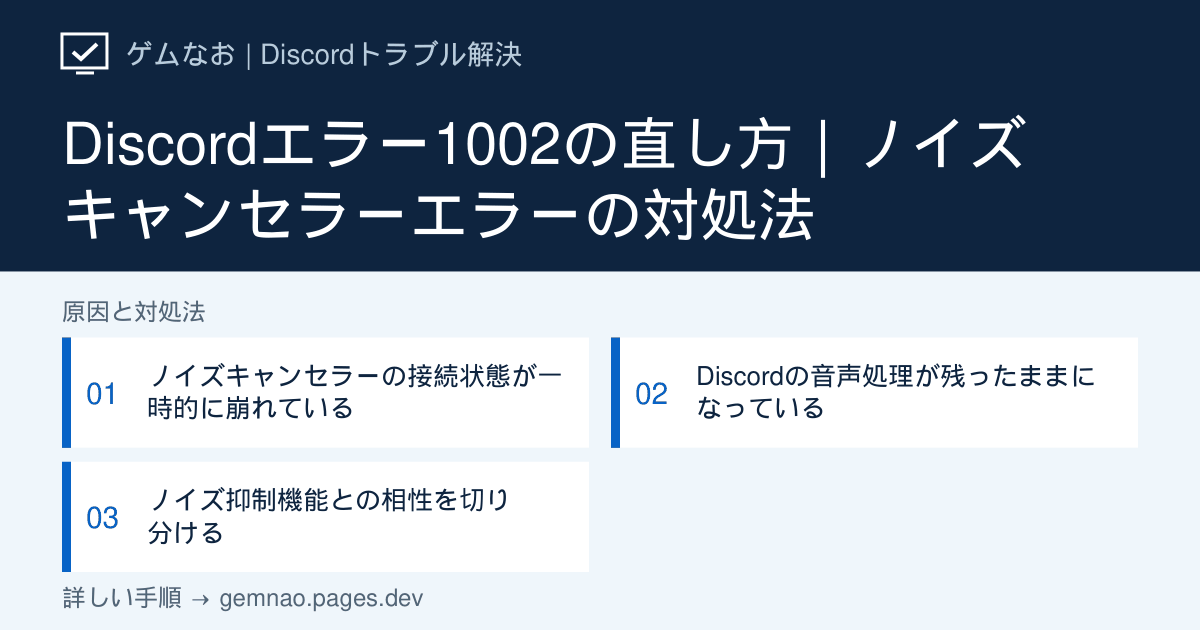
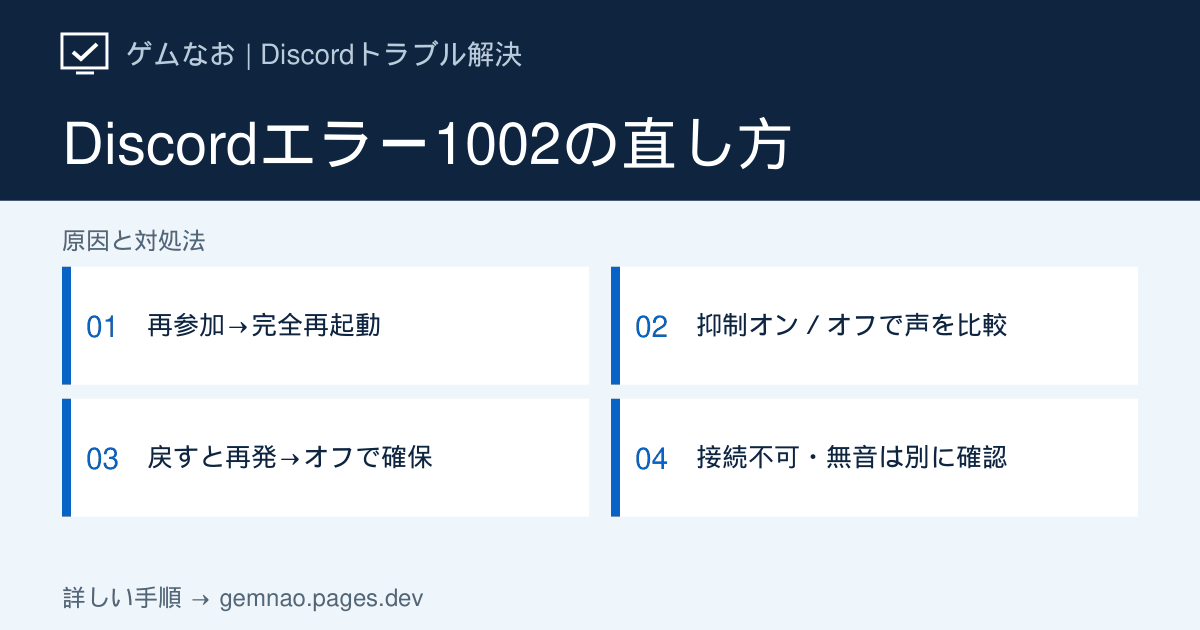
Improve error 1002 guide with noise suppression comparisons and recurrence branches

diff --git a/lib/discord-p0-articles.ts b/lib/discord-p0-articles.ts
@@ -443,78 +443,92 @@ export const discordP0Articles: DiscordArticle[] = [
   {
     slug: 'error-1002',
     category: 'audio',
-    title: 'Discordエラー1002の直し方｜ノイズキャンセラーエラーの対処法',
+    title: 'Discordエラー1002の直し方｜ノイズ抑制の比較と再発時の対処',
     shortTitle: 'エラー1002・ノイズキャンセラー',
-    seoTitle: 'Discordエラー1002の直し方｜ノイズキャンセラーエラー',
-    metaDescription:
-      'Discordエラー1002が出たときの対処法。通話への再参加、Discordの完全再起動、ノイズ抑制の切り分けを公式案内に沿って説明します。',
-    symptom:
-      'Discordの通話中にエラー1002が表示され、ノイズキャンセラーまたはノイズ抑制が正常に動作しない場合の手順です。',
-    target: 'Windows版 Discordデスクトップアプリの音声通話',
-    conclusion:
-      'エラー1002は、Discord公式ではバックグラウンドノイズキャンセラーの内部エラーです。まず通話から退出して再参加し、続く場合はDiscordを最小化ではなく完全終了して再起動します。',
+    seoTitle: 'Discordエラー1002の直し方｜ノイズ抑制を戻すと再発する場合',
+    metaDescription: 'Discordエラー1002を再参加・完全再起動から確認。ノイズ抑制のオン／オフでエラーと相手への聞こえ方を比較し、戻すと再発する場合や通話に接続できない場合の次の手順を解説します。',
+    symptom: '通話でエラー1002が表示される、ノイズ抑制を戻すと再発する、抑制を切っても声が届かない場合の確認手順です。',
+    target: 'Windows版Discordデスクトップアプリの音声通話',
+    conclusion: '1002はDiscord公式が案内するノイズキャンセラーの内部エラーです。最初に通話へ再参加し、続くならDiscordを完全再起動します。直らなければ同じマイク・相手・通話でノイズ抑制だけを変更し、エラーと声を別々に確認。オンへ戻すと再発する場合は、オフで通話を確保して更新・負荷の確認へ進みます。',
     quickFixes: [
-      'ボイスチャンネルまたは通話から退出して再参加する',
-      'Discordをタスクトレイから完全終了して再起動する',
-      'ノイズ抑制を一時的にオフにして通話できるか確認する',
+      '1002の表示を確認し、通話への再参加→Discordの完全再起動を試す',
+      '同じ条件で、元のノイズ抑制→オフ→元の設定を比較する',
+      'オフで改善する場合と、接続できない・声が届かない場合を分ける',
+    ],
+    showStatusCheck: false,
+    diagnosisTitle: 'オン／オフで何が変わった？ エラーと聞こえ方の判断表',
+    diagnosisIntro: '「1002が消えた」と「通話が正常」は別に記録します。比較は同じマイク・入力音量・通話相手で行い、相手には声の欠けと周囲の音を確認してもらってください。',
+    diagnosis: [
+      { symptom: '1002が表示されたばかり', check: '設定を変える前に再参加・完全再起動', causeIndex: 1 },
+      { symptom: 'オフで1002が消え、相手に声が届く', check: '元の抑制設定へ戻して再発するか1回比較', causeIndex: 2 },
+      { symptom: '元へ戻すと1002再発、オフなら通話できる', check: 'オフを一時運用し、更新と発生条件を確認', causeIndex: 3 },
+      { symptom: '1002は消えたが、雑音や声の欠けが残る', check: 'エラー解消と音質を分け、静かな環境でも比較', causeIndex: 3 },
+      { symptom: 'オンでもオフでも1002が出る', check: '抑制だけに絞らず、更新・別クライアント比較と相談', causeIndex: 3 },
+      { symptom: 'RTC接続中・No Routeで参加できない／参加しても無音', check: '接続失敗とマイク・出力の問題を分ける', causeIndex: 4 },
     ],
     causes: [
       {
-        title: 'ノイズキャンセラーの接続状態が一時的に崩れている',
-        description:
-          'Discord公式が最初に案内しているのは、通話への再参加による接続のリセットです。',
+        title: '1002を確認し、再参加と完全再起動を順に試す',
+        description: 'Discord公式の1002向け対処は、通話への再参加とアプリの完全再起動です。雑音があるだけで1002と判断せず、画面に出ている番号を確認します。',
         actions: [
-          '現在のボイスチャンネルまたは通話から退出する',
-          '数秒待って同じ通話へ再参加する',
-          'エラー1002が再表示されるか確認する',
+          'エラー番号・発生時刻・通話開始直後かゲーム中かを控える。現在の通話から退出し、同じ通話へ再参加する。',
+          '1002が再表示されるかと、相手に声が届くかを別々に確認する。再発せず会話できれば、そのまま様子を見る。',
+          '続くならWindowsの通知領域でDiscordアイコンを右クリックし、終了する。ウィンドウを閉じるだけではアプリが残る場合がある。',
+          '必要ならCtrl＋Shift＋Escでタスクマネージャーを開き、Discordが終了したことを確認してから起動し直す。同じ通話で再確認し、残る場合はSTEP 2へ進む。',
         ],
       },
       {
-        title: 'Discordの音声処理が残ったままになっている',
-        description:
-          'ウィンドウを閉じただけではDiscordが通知領域に残るため、完全終了して再読み込みします。',
+        title: '元の設定→オフ→元の設定で、エラーと声を比較する',
+        description: '以下は公式の音声設定案内を基にした切り分け手順です。入力機器・入力音量・感度・エコー除去を同時に変えず、ノイズ抑制だけを比較します。',
         actions: [
-          '通知領域のDiscordアイコンを右クリックする',
-          '「Discordを終了」を選ぶ',
-          'タスクマネージャーにDiscordが残っていないか確認する',
-          'Discordを起動し直して通話へ入る',
+          '歯車アイコンの「ユーザー設定」→「音声・ビデオ」を開き、「ノイズ抑制／Noise Suppression」まで移動する。現在の選択肢名を控える。Krispなど方式の選択がある場合も、元の方式を記録する。',
+          'まず現在の設定で短い同じ文を話す。例は「今からゲームを始めます。声の最後まで聞こえますか」。相手に語頭・語尾の欠けとキーボード音などを確認してもらう。',
+          'ノイズ抑制をオフにする。選択式なら「なし／None」など無効にする項目を選ぶ。同じ通話へ再参加し、同じ文・同じ距離で話す。',
+          '「元の設定：1002あり／声の語尾が欠ける」「オフ：1002なし／声は届くが打鍵音が増える」のように、エラー・声・雑音を3項目で記録する。この例は記入例であり、実測結果ではない。',
+          'オフで通話できたら、元の方式へ1回戻し、同じように再参加して確認する。元でも正常ならその設定を使い、再発したらオフへ戻してSTEP 3へ進む。',
         ],
+        note: '最初からオフだった場合は、その状態でも1002が出ることを記録してください。相手がいない時は「音声・ビデオ」のマイクテストで入力を確認できますが、相手に届く声や実際の通話の再発確認までは代用できません。',
       },
       {
-        title: 'ノイズ抑制機能との相性を切り分ける',
-        description:
-          '再参加と再起動で直らない場合は、公式の音声トラブル手順に沿ってノイズ抑制を一時的に無効化します。',
+        title: '戻すと再発する場合は、通話を確保して発生条件を絞る',
+        description: 'オンで再発しオフで改善する結果は、ノイズ抑制を使う条件が確認先になるという意味です。マイク故障やCPU性能不足まで、この比較だけで断定しません。',
         actions: [
-          'Discordのユーザー設定から「音声・ビデオ」を開く',
-          '音声タブのノイズ抑制を一時的にオフにする',
-          '同じ通話へ参加して1002が出るか確認する',
-          '確認後、必要に応じて設定を戻す',
+          'オフで会話できるなら、いったんその状態を使う。周囲の音が増える場合は静かな場所へ移る、話さない時はミュートするなどで対応し、無理にオンへ戻し続けない。',
+          'Discordを更新して完全再起動し、STEP 2の比較を1回行う。再発した場合はDiscordのバージョンと元のノイズ抑制方式を記録する。',
+          'ゲーム・配信中だけ発生するなら、まずそれらを止めた通話だけの状態で比較する。Ctrl＋Shift＋Esc→「プロセス」のCPU欄で負荷を確認し、不要な自分のアプリを閉じた後も結果を比べる。',
+          '「CPU負荷によりKrispが自動でオフになった」という通知は1002と区別する。公式は高負荷時の自動オフを案内しているが、その通知だけで1002の原因が確定するわけではない。',
+          'オン・オフ両方で続く場合は、デスクトップ版を通話から退出させ、同じPC・マイク・相手でブラウザ版の通話も確認する。ブラウザのマイク許可と実際の抑制設定を記録し、アプリ版だけか両方かをサポートへ伝える。',
+        ],
+        note: 'ブラウザ版とアプリ版で使える機能や設定が違う場合があります。片方で成功しても、同じノイズ抑制処理を比較できたとは限りません。',
+      },
+      {
+        title: '通話自体ができない場合は、止まる地点で別の確認へ進む',
+        description: '1002が消えても接続や入出力の問題が残る場合があります。ノイズ抑制の切り替えだけを繰り返さず、今できない操作を確認します。',
+        actions: [
+          '「RTC接続中」や「No Route」で止まるなら、まだ声を比較できる段階ではない。関連記事の接続エラー手順へ進む。',
+          '特定のサーバー・チャンネルだけ参加できない場合は、管理者に「接続」「発言」の権限やサーバーミュートを確認してもらう。',
+          '参加できて相手の声は聞こえるが、自分の声が届かない場合は、マイクの物理ミュート・Discordのミュート・入力デバイスとマイクテストを確認する。関連記事「マイクが反応しない」へ進む。',
+          '自分の声は届くが相手の声が聞こえない場合は、スピーカーミュート・出力デバイス・相手の個別音量を確認する。関連記事「相手の声が聞こえない」へ進む。',
         ],
       },
     ],
-    ifNotFixed:
-      'Discordを最新版へ更新し、別の入力デバイスでも1002が出るか確認してください。発生時刻、使用デバイス、ノイズ抑制の設定、エラー画面を添えてDiscordサポートへ連絡すると状況を伝えやすくなります。',
+    ifNotFixed: 'Discordサポートへ「1002の画面／WindowsとDiscordのバージョン／マイク・出力機器／元の抑制方式／元→オフ→元の各結果／ゲームなし・ありの差／ブラウザ版の結果」を送ります。エラーが消えた後の音切れは1002と混同せず、残った症状として伝えてください。',
     faqs: [
-      {
-        question: 'エラー1002が出ても通話は続けられますか？',
-        answer:
-          '通話できる場合でも、ノイズキャンセラーが正常に動作していない可能性があります。まず退出・再参加と完全再起動でエラーが消えるか確認してください。',
-      },
-      {
-        question: 'ノイズ抑制をオフにしたままでよいですか？',
-        answer:
-          '一時的な切り分けとしては問題ありません。周囲の音が入りやすくなるため、エラー解消後は必要に応じてオンへ戻してください。',
-      },
-      {
-        question: '1002と1003は同じエラーですか？',
-        answer:
-          '異なります。1002はノイズキャンセラーの内部エラー、1003はマイク入力レートの重大な不一致による音声の歪みとして公式に案内されています。',
-      },
+      { question: 'ノイズ抑制は必ずオンに戻す必要がありますか？', answer: '必須ではありません。静かな環境でオフでも声が明瞭なら、その設定を使えます。戻すと1002が再発する場合はオフで通話を確保し、更新後に再確認します。雑音が入るかは相手にも確認してください。' },
+      { question: '自分のノイズ抑制を変えると、相手の雑音も消えますか？', answer: '自分側のKrispは自分から送る音のノイズを抑えます。相手のマイクが拾う雑音は相手側で確認するため、比較は自分の声を聞く相手に協力してもらいます。' },
+      { question: 'Krispが勝手にオフになるのも1002ですか？', answer: '同じとは限りません。CPU高負荷時には音声性能を守るため自動でオフになると公式が説明しています。1002の番号が出たか、自動オフの通知だけかを分けて記録します。' },
+      { question: '1002が消えれば解決と判断できますか？', answer: 'エラー表示に加え、相手へ声が途切れず届くか、雑音が会話を妨げないかも確認します。接続できない、声が届かないなどが残る場合は、その症状の確認へ進みます。' },
     ],
-    sources: [errorCodeGuide, voiceVideoGuide],
-    related: ['error-1003', 'mic-not-working', 'cant-hear-voice'],
-    checkedAt: '2026-09-17',
+    sources: [
+      errorCodeGuide, voiceVideoGuide,
+      { label: 'Discord公式：Krisp FAQ（設定場所・音質・高負荷時の動作）', url: 'https://support.discord.com/hc/en-us/articles/360040843952-Krisp-FAQ' },
+      { label: 'Discordサポート：問い合わせ', url: 'https://support.discord.com/hc/en-us/requests/new' },
+    ],
+    related: ['rtc-connecting', 'no-route', 'mic-not-working', 'cant-hear-voice', 'voice-cutting-out'],
+    checkedAt: '2026-09-28',
     status: 'verified',
+    ogTitle: 'Discordエラー1002の直し方',
+    ogSteps: ['再参加→完全再起動', '抑制オン／オフで声を比較', '戻すと再発→オフで確保', '接続不可・無音は別に確認'],
   },
   {
     slug: 'error-1003', category: 'audio',

diff --git a/lib/og-image-manifest.ts b/lib/og-image-manifest.ts
@@ -11,7 +11,7 @@ export const ogImageManifest: Record<string, string> = {
   "/discord/crashing": "10557b11",
   "/discord/echo-double-voice": "bf3f502a",
   "/discord/error-1001": "7cb71244",
-  "/discord/error-1002": "ead6d712",
+  "/discord/error-1002": "348468b3",
   "/discord/error-1003": "6f4b64b2",
   "/discord/game-not-detected": "677b005b",
   "/discord/game-volume-lowers": "2553f87b",
